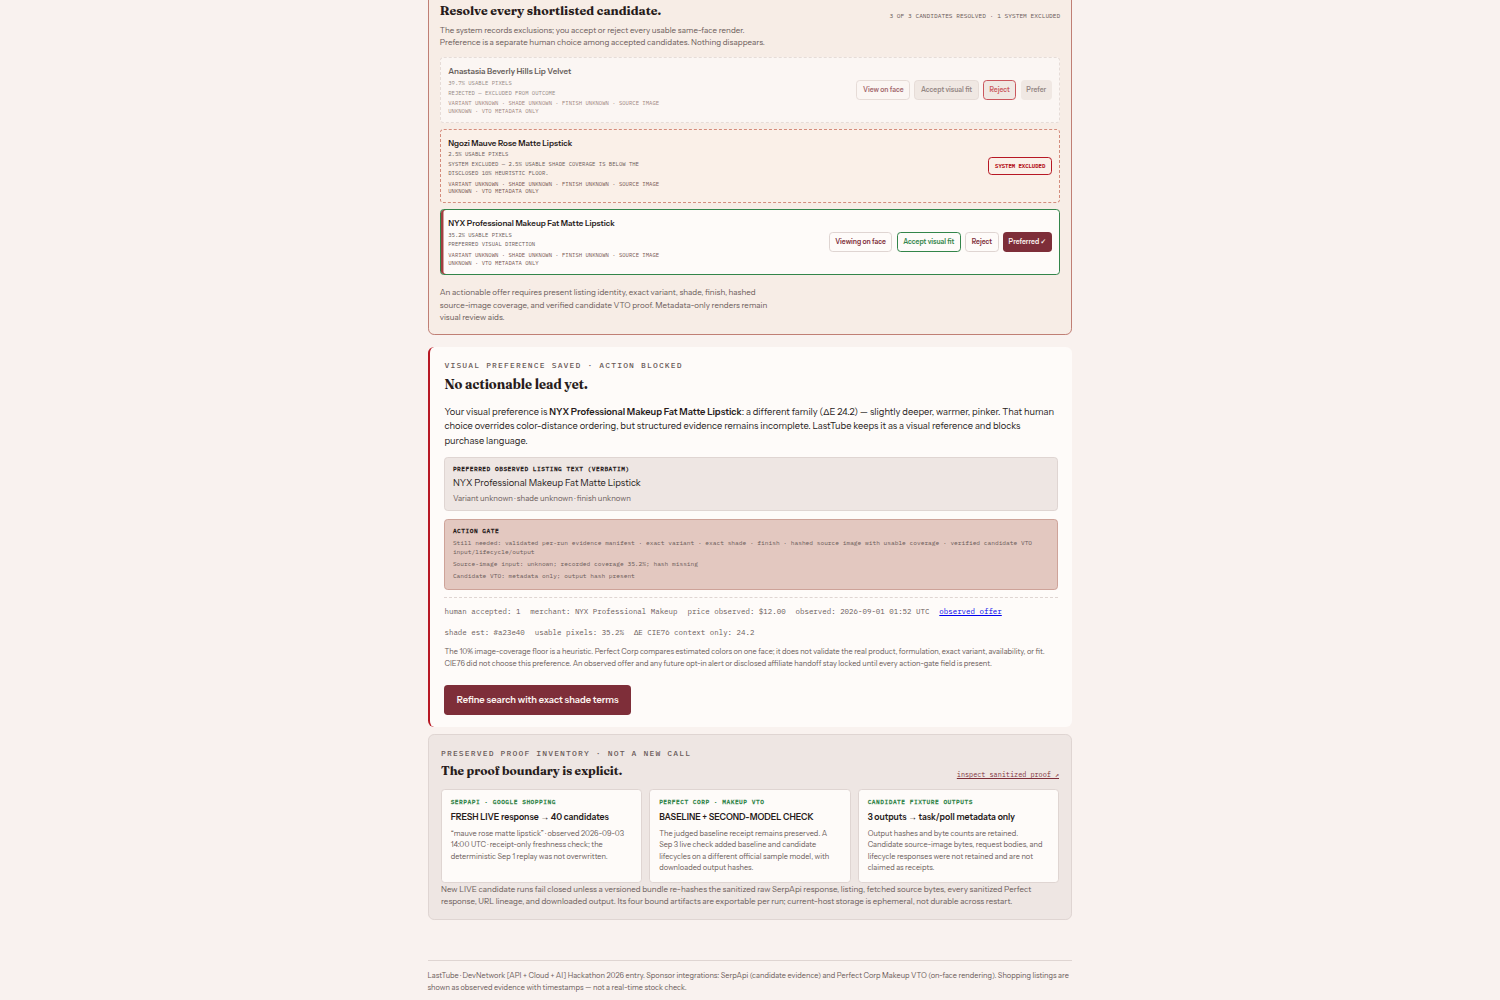
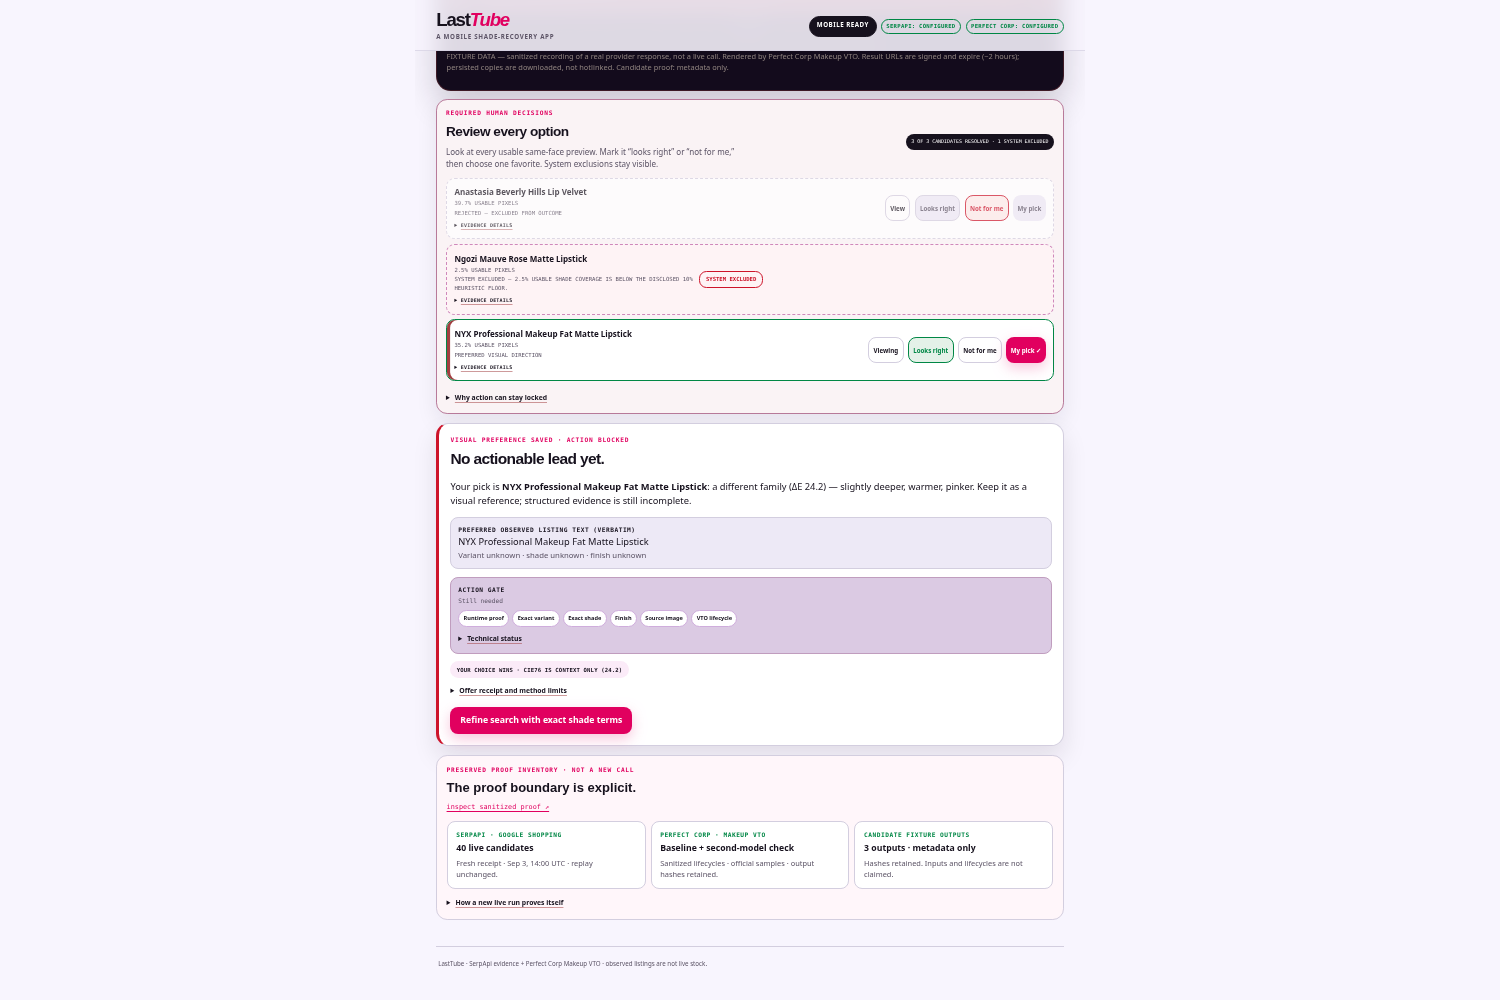
docs(demo): publish mobile-first evidence set

Changed region(s): [[0.276, 0.0, 0.736, 0.93], [0.276, 0.961, 0.7053, 0.992]]

diff --git a/docs/verification-receipt.md b/docs/verification-receipt.md
@@ -1,40 +1,27 @@
-# Verification receipt — alternate official model proof
+# Verification receipt — mobile-first product demo
 
 Date: 2026-09-03 EDT
 
-Base commit: `c678561`
+Accepted base: rewritten local `main` after the operator-requested purge of
+`docs/design-brief.md`. Earlier packet content remains, but its pre-rewrite commit ids are historical
+identifiers. The deterministic judged model, human decisions, and evidence-derived **NO ACTIONABLE
+LEAD YET** outcome are unchanged.
 
-Scope: Packet 14, a bounded provider-freshness and alternate-model proof. The deterministic judged
-hero, human decisions, and evidence-derived **NO ACTIONABLE LEAD YET** outcome are unchanged.
+## What changed
 
-Demo-director follow-up: the model card now says **Preview shades on a demo model**; the built
-Safe-demo rehearsal passed with no external calls. `.playwright-mcp/` is ignored before recording,
-and the repository-local `submission/` snapshot is removed from Git tracking while remaining on disk
-and byte-identical to the sibling submission package.
-
-## What changed and what it proves
-
-- `npm run proof:serpapi -- --receipt-only` made one fresh Google Shopping call for
-  `mauve rose matte lipstick`. It returned 40 live normalized candidates and wrote sanitized
-  September 3 receipts without replacing the September 1 deterministic fixture.
-- A second portrait published in Perfect Corp's own API playground was retained at
-  `proofs/perfectcorp/2026-09-03-alternate-model-source.png`. It is disclosed fixture media, not a
-  LastTube user's selfie.
-- The alternate-model proof retains two new successful Makeup VTO lifecycles: a Backtalk-family
-  baseline (`#A96A73`) and one ABH candidate-effect comparison (`#bb727a`). Each completed after four
-  bounded polls. Sanitized create/poll responses, source hash/bytes, output-download lineage,
-  downloaded output hash/bytes, and the credit delta are committed.
-- Perfect Corp served the first signed output with `application/octet-stream`. The existing output
-  gate rejected it before saving the signed URL or bytes. The bounded repair accepts the provider's
-  generic binary type only when the response remains within the size cap and Sharp successfully
-  decodes the exact bytes as an image; invalid generic bytes still fail closed.
-- The first rejected download consumed one unit. The retry retained two successful outputs and spent
-  two more units. Packet total: three Perfect Corp units, from 1,344 to 1,341.
-- The alternate-model evidence is a separate robustness proof. It does not replace or retroactively
-  upgrade the judged candidate fixtures, fetch merchant media, validate variant/shade/finish, or
-  unlock an offer.
-- The proof panel now exposes both the fresh SerpApi receipt and `BASELINE + SECOND-MODEL CHECK` while
-  continuing to label the three judged candidate outputs as task/poll metadata only.
+- LastTube is now an installable, portrait-first PWA with a standalone manifest, local app icons,
+  and a static-only service worker. `/api/*` is always network-only.
+- The 350–430px experience is primary; the responsive desktop site is the companion artifact. This
+  Linux host has Java and `adb`, but no Android SDK/Gradle toolchain. No native Android or iOS binary
+  is claimed.
+- Product copy is shorter and task-led. Audit detail remains available behind disclosure controls,
+  while fixture status, provider boundaries, human decisions, and missing action evidence remain
+  visible.
+- The single signature motion element is the **Shade Signal** progress rail. It has a reduced-motion
+  fallback and does not copy third-party assets or trade dress.
+- The public README no longer contains the operator-identified Reddit URL.
+- The repository-local `submission/` directory remains ignored/untracked and byte-identical to the
+  sibling submission package.
 
 ## Commands and results
 
@@ -42,46 +29,47 @@ All commands ran from the repository root.
 
 | Command | Result |
 |---|---|
-| `npm run proof:serpapi -- --receipt-only` | exit 0; 1 live call; 40 candidates; deterministic fixture unchanged |
-| first `npm run proof:alternate-model` | exit 1 after 1 successful provider task; generic response media type rejected before persistence; 1 unit spent |
-| `npm run typecheck && npx vitest run tests/runtimeEvidence.test.ts && npm run lint -- --quiet` | exit 0 after the bounded decoder-backed repair; 8 focused tests passed |
-| retry `npm run proof:alternate-model` | exit 0; baseline + candidate succeeded in 4 polls each; 2 retained outputs; 2 units spent |
-| `npx vitest run tests/alternateModelProof.test.ts tests/runtimeEvidence.test.ts` | exit 0; 10/10 focused tests passed |
-| `npm run verify` | exit 0; typecheck, lint, 11 test files / 63 tests, 43-module production build, secret scan |
-| `npm run capture:demo` | exit 0 twice; built artifact; baseline required; all 3 candidates resolved; preference overrides CIE76; incomplete evidence blocks action; 3+ fixture badges; zero provider/non-local image requests; zero browser errors |
-| `diff -qr submission ../submission/lasttube` | exit 0; byte-identical packages |
+| `npm run verify` | exit 0; typecheck, lint, 11 test files / 63 tests, 44-module production build, secret scan over 101 files / 3 configured values |
+| `npm run capture:demo` | exit 0; production artifact; required baseline; all 3 candidates resolved; human preference overrides CIE76; incomplete provenance blocks action; 3+ fixture badges; zero provider/non-local image requests; zero browser errors |
+| `diff -rq submission ../submission/lasttube` | exit 0; byte-identical packages |
+| `git rev-list main -- docs/design-brief.md` | no output; purged from local `main` history |
+| exact Reddit-URL scan across tracked/public submission artifacts | no matches |
 | `git diff --check` | clean |
 
-The two final captures were byte-identical:
+## Captured artifacts
 
-| Artifact | SHA-256 |
-|---|---|
[6 lines of base64/hex data omitted]
+| Artifact | Dimensions | SHA-256 |
+|---|---:|---|
[7 lines of base64/hex data omitted]
 
 ## Direct inspection
 
-- Alternate source: 1080×1427 neutral-front portrait, visibly different from the judged fixture.
-- Alternate baseline render: successful mauve-rose lip application; source face and framing retained.
-- Alternate candidate render: visibly lighter/pinker than the baseline; source face and framing match.
-- Built desktop artifact: 1500×1000 verdict keeps the three-row disposition ledger, stopped outcome,
-  fresh SerpApi/second-model proof copy, and metadata-only judged-candidate boundary in one frame.
-- Built mobile artifact: 350×1172 verdict remains readable with no horizontal overflow.
-- Opening artifact: 1440×900 product-first layout remains clean, visibly arms Safe demo, and the
-  friendlier demo-model heading fits without collision.
+- Desktop opening: the lost-shade problem, three proof promises, Shade Signal, and first action are
+  legible in one 1440×900 frame.
+- Mobile opening: 350px width has no horizontal overflow; proof pills wrap and the progress rail
+  remains readable.
+- Desktop verdict: complete three-row disposition, stopped result, and sponsor proof remain visible.
+- Mobile verdict: the stopped result, preferred option, friendly missing-evidence chips, and refined
+  search action are readable without overflow. Technical receipts are available on demand.
 
 ## Provider, privacy, and action boundaries
 
-- Provider cost: 1 SerpApi event/free-plan search, 3 Perfect Corp event units, $0 paid.
-- No credential value, raw signed URL, signed query, or raw provider receipt is committed or printed.
-- No real selfie, operator media, new merchant product image, public deployment, push, publication,
-  upload, Devpost edit/submission, outreach, or final track selection occurred.
-- The current preferred fixture listing still lacks trusted structured exact variant, exact shade,
-  finish, and source-image evidence. The product correctly remains **NO ACTIONABLE LEAD YET** with no
-  purchase CTA.
-- Public deployment, repository visibility, video recording/upload, logged-out judge verification,
-  Devpost entry, and final sponsor-track selection remain operator-owned gates.
+- Accepted implementation and capture made zero SerpApi calls and zero Perfect Corp calls.
+- A discarded `general_03` model experiment used four Perfect Corp event/free-credit units (balance
+  1,341 → 1,337), $0 paid. The operator then requested the previous model; all experiment assets and
+  code were removed. Original model hashes remain
[2 lines of base64/hex data omitted]
+- No credential value, raw signed URL, raw provider receipt, real selfie, or new merchant image is
+  exposed.
+- The preferred fixture listing still lacks structured exact variant, exact shade, finish,
+  source-image, and candidate-lifecycle evidence. The app correctly remains **NO ACTIONABLE LEAD
+  YET** with no purchase CTA.
+- Public deployment, remote history replacement, repository publication, video upload, Devpost
+  editing/submission, and final track selection remain operator-owned gates.

diff --git a/README.md b/README.md
@@ -13,10 +13,14 @@ Built for the DevNetwork [API + Cloud + AI] Hackathon 2026 with both sponsor tec
 - **SerpApi** (Google Shopping engine) discovers observed replacement candidates with merchant, price, availability text, source links, and observation timestamps.
 - **Perfect Corp Makeup VTO** renders every comparison through the real async lifecycle: `POST /s2s/v2.0/task/makeup-vto` → bounded polling → signed result download.
 
+The primary demo artifact is an **installable mobile PWA** designed for a 350–430px beauty-shopping
+workflow. It launches in standalone display mode on Android and can be added to the Home Screen on
+iOS; the same build expands into the secondary desktop website. A native iOS build is not claimed
+because it requires macOS/Xcode, and this Linux host has `adb` but no Android SDK/Gradle toolchain.
+
 Public user reports support the narrow problem framing: one person described a
 [ten-year search and several poor matches](https://www.reddit.com/r/makeupdupes/comments/1w4h7mw/10_year_search_for_discontinued_lip_color/),
-another described [stale local-availability results](https://www.reddit.com/r/MakeupAddiction/comments/1w2pxh2/urban_decay_1993/),
-and a third weighed [shade similarity against formula](https://www.reddit.com/r/PaleMUA/comments/1w3pj43/old_mac_blankety_dupe_or_alternate_colors/).
+while another described [stale local-availability results](https://www.reddit.com/r/MakeupAddiction/comments/1w2pxh2/urban_decay_1993/).
 Those anecdotes do **not** establish LastTube's accuracy, validation, market size, or willingness to pay.
 
 ![Act 3 — human preference with action blocked](docs/screenshots/judge-devpost-verdict.png)
@@ -37,7 +41,9 @@ Those anecdotes do **not** establish LastTube's accuracy, validation, market siz
    preference are all present. The tracked hero evidence is incomplete, so it ends with **No
    actionable lead yet** and a refined-search handoff.
 
-The interface itself is tinted by the shade under consideration (`--shade`), so the product's subject — the color — is the one bold element on the page.
+The mobile-first interface carries the real shade under consideration through one luminous
+**Shade Signal** progress rail and the lost→candidate bridge. Motion explains progress and color
+change; reduced-motion users get the same states without the sweep.
 
 ## Provider honesty
 
@@ -75,7 +81,8 @@ enrichment source is configured or claimed.
 
 ```
 Vite + React client (src/)
-  Act 1 input → Act 2 evidence panel → Act 3 baseline + human decisions + stop/handoff
+  Installable mobile PWA → Step 1 input → Step 2 evidence → Step 3 decision/stop
+  manifest + app icons + service worker (provider API routes always network-only)
         │  /api/* only — no secrets in the browser
         ▼
 Hono on Node (server/)
@@ -108,7 +115,7 @@ Without keys the API reports providers as `unavailable` — it never fakes live 
 
 ```bash
 npm run dev:api   # API on http://localhost:8787
-npm run dev       # web client on http://localhost:5173 (proxies /api)
+npm run dev       # mobile-first PWA on http://localhost:4317 (proxies /api)
 ```
 
 ## Verify (no network needed)
@@ -125,13 +132,14 @@ npm run capture:demo
 ```
 
 The capture command starts the production-built app, opens `/?mode=demo` in the installed Chrome,
-drives Backtalk through three shortlisted candidates, records one system exclusion, verifies the
-lost-shade baseline, rejects the lower-ΔE candidate, accepts and prefers the other, proves CIE76 did
-not choose, confirms the structured action gate stays locked, and writes six screenshots under
+validates the standalone manifest and both install icons, drives Backtalk through three shortlisted
+candidates, records one system exclusion, verifies the lost-shade baseline, rejects the lower-ΔE
+candidate, accepts and prefers the other, proves CIE76 did not choose, confirms the structured action
+gate stays locked, and writes seven screenshots under
 `docs/screenshots/`. It fails if the browser attempts a live SerpApi, Perfect Corp, or merchant-image
 request, if fixture rows render remote product thumbnails, if any non-local image is requested, if
-fewer than three `FIXTURE` badges render, if the browser reports an error, or if the mobile verdict
-overflows horizontally. Fixture listing thumbnails are deliberately replaced by local `REC`
+fewer than three `FIXTURE` badges render, if the browser reports an error, or if the 350px mobile
+opening or verdict overflows horizontally. Fixture listing thumbnails are deliberately replaced by local `REC`
 placeholders; the merchant image URLs remain in the sanitized receipt, but the judge-demo pixels do
 not depend on them. Set `CHROME_PATH` only when Chrome is installed elsewhere.
 
